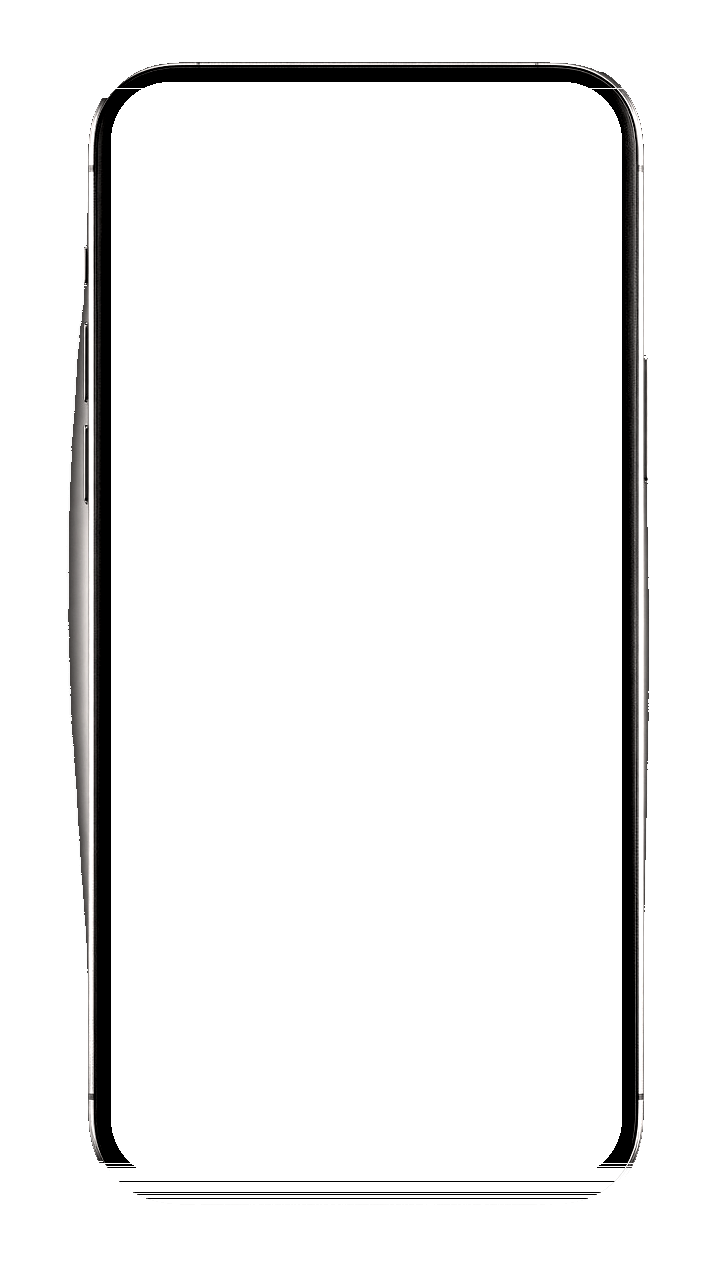
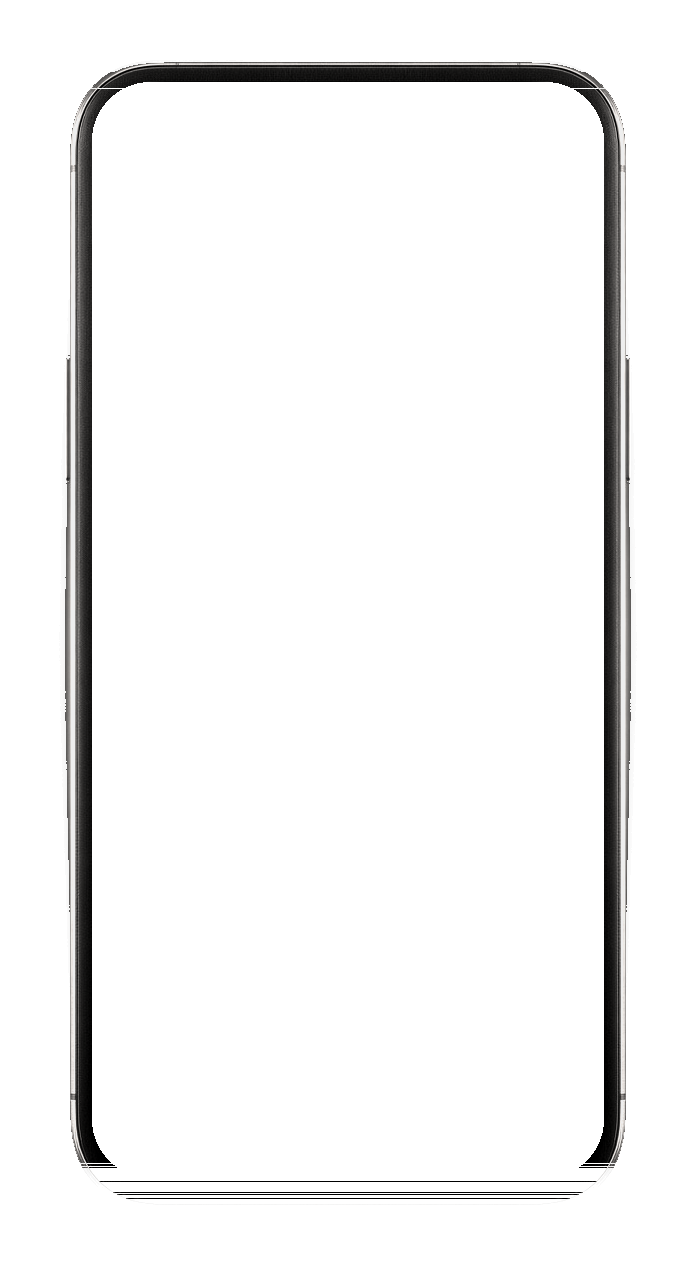
La scocca era storta e bruciata: rifatta simmetrica dall'originale
Due difetti, tutti e due miei, tutti e due misurati:

1. FIANCHI DIVERSI. Il render di Valdiriom e un telefono visto
   leggermente di lato: il bordo sinistro misura 42px, il destro 27 --
   uno 1,6 volte l'altro. Li era voluto (la scocca ruotava), qui sta
   dritta in vetrina e leggeva storta. Ora e simmetrica: si specchia il
   lato buono (quello dritto, 27px) sull'altro. Cambiano proporzione
   dell'immagine e percentuali del foro, ricavate dal PNG e aggiornate
   di conseguenza.

2. BORDO BRUCIATO. Nel giro precedente avevo spinto il contrasto per
   "marcare" il contorno e avevo portato il 9,5% dei pixel della scocca
   a bianco puro: il metallo perdeva il passaggio di tono e diventava
   un filo bianco duro. Il difetto veniva da li.

Rifatta in una passata sola PARTENDO DALL'ORIGINALE invece di impilare
un'altra correzione su un'immagine gia degradata: contrasto leggero con
un tetto a 238 (bruciati ora 0,0%) e alone ridotto dal 20,8% all'1,2%,
quel tanto che basta a tenere il filo di luce sul bordo senza rendere
indistinta la sagoma.

Claude-Session: https://claude.ai/code/session_016DRk6PvdY2cdQL8hxKzsSZ

Changed region(s): [[0.0905, 0.0309, 0.9052, 0.9256]]

diff --git a/src/components/PhoneMock.tsx b/src/components/PhoneMock.tsx
@@ -7,15 +7,18 @@ import type { Language } from "../context/LanguageContext";
    trasparente fuori dalla sagoma, cosi l'alone dell'app le passa
    dietro invece di essere coperto da un rettangolo nero.
 
-   Le misure sotto sono il foro dello schermo dentro quel PNG: vanno
-   lasciate come sono, sono state ricavate dall'immagine e non
-   ritoccabili a occhio. */
-const PHONE_ASPECT = "714 / 1264";
+   Il render originale e un telefono visto leggermente di lato: il
+   fianco sinistro era 1,6 volte il destro (42px contro 27), e dritto
+   in vetrina leggeva storto. La scocca e stata resa simmetrica
+   specchiando il lato buono, quindi le misure qui sotto sono cambiate
+   insieme all'immagine -- sono ricavate dal PNG e non si ritoccano a
+   occhio. */
+const PHONE_ASPECT = "696 / 1264";
 const SCREEN = {
-  left: "15.546%",
+  left: "13.218%",
   top: "6.487%",
-  width: "71.429%",
-  height: "86.63%",
+  width: "73.563%",
+  height: "88.291%",
   radius: "8.2% / 4.7%",
 } as const;
 

diff --git a/src/components/RevolverHero.tsx b/src/components/RevolverHero.tsx
@@ -352,7 +352,7 @@ export function RevolverHero({
                 // Le proporzioni del render della scocca, non un valore
                 // scelto a occhio: se non combaciano, l'immagine della
                 // cornice si deforma.
-                aspectRatio: "714 / 1264",
+                aspectRatio: "696 / 1264",
                 transformStyle: "preserve-3d",
                 /* Il telefono non prende un'altezza fissa in vh: prende
                    quella che avanza dopo la riga della tesi in alto e la
